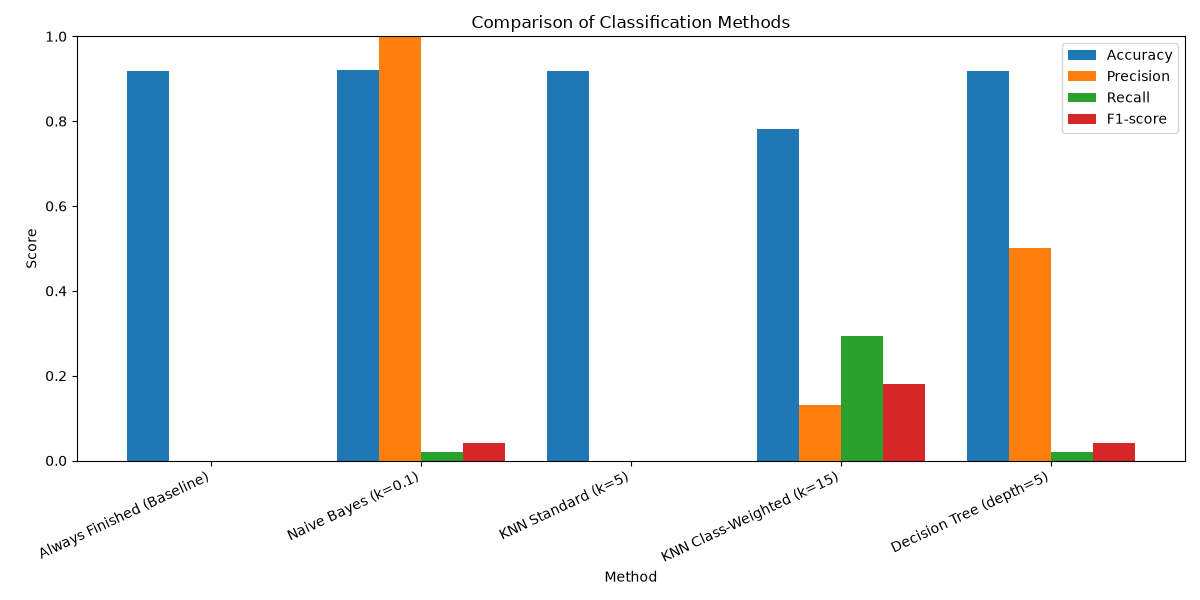
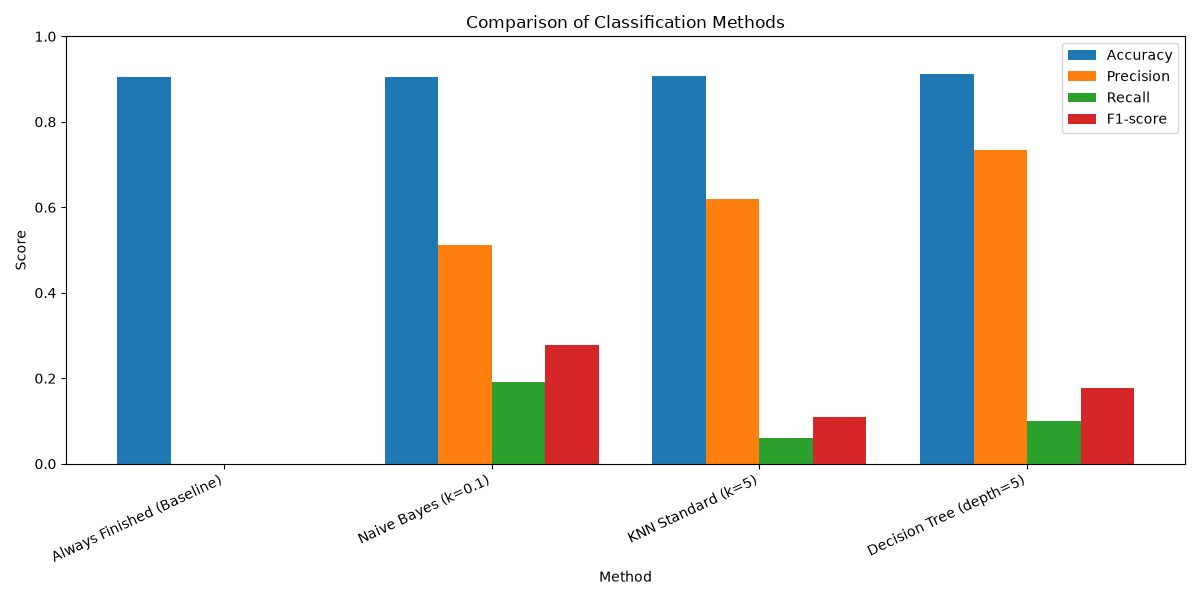
remove weighted knn graph

diff --git a/Codes/compare.py b/Codes/compare.py
@@ -195,23 +195,18 @@ def run_comparison():
     nb_result = evaluate_method("Naive Bayes (k=0.1)", test_labels, nb_preds)
     results.append(nb_result)
 
-    # 3. KNN (Standard)
+    # 3. KNN
     knn_std_preds = run_knn(train_data, train_labels, test_data, 5, 2, False)
     knn_std_result = evaluate_method("KNN Standard (k=5)", test_labels, knn_std_preds)
     results.append(knn_std_result)
 
-    # 4. KNN (Class-Weighted Workaround)
-    knn_wt_preds = run_knn(train_data, train_labels, test_data, 15, 2, True)
-    knn_wt_result = evaluate_method("KNN Class-Weighted (k=15)", test_labels, knn_wt_preds)
-    results.append(knn_wt_result)
-
-    # 5. Decision Tree
+    # 4. Decision Tree
     tree = build_tree(train_data, data["y_train"], 5, 10, 5)
     dt_preds = predict(tree, test_data)
     dt_result = evaluate_method("Decision Tree (depth=5)", test_labels, dt_preds)
     results.append(dt_result)
 
-    # 6. Graph and Table Output
+    # 5. Graph and Table Output
     print_results_table(results)
     create_metrics_graph(results)
     return results
